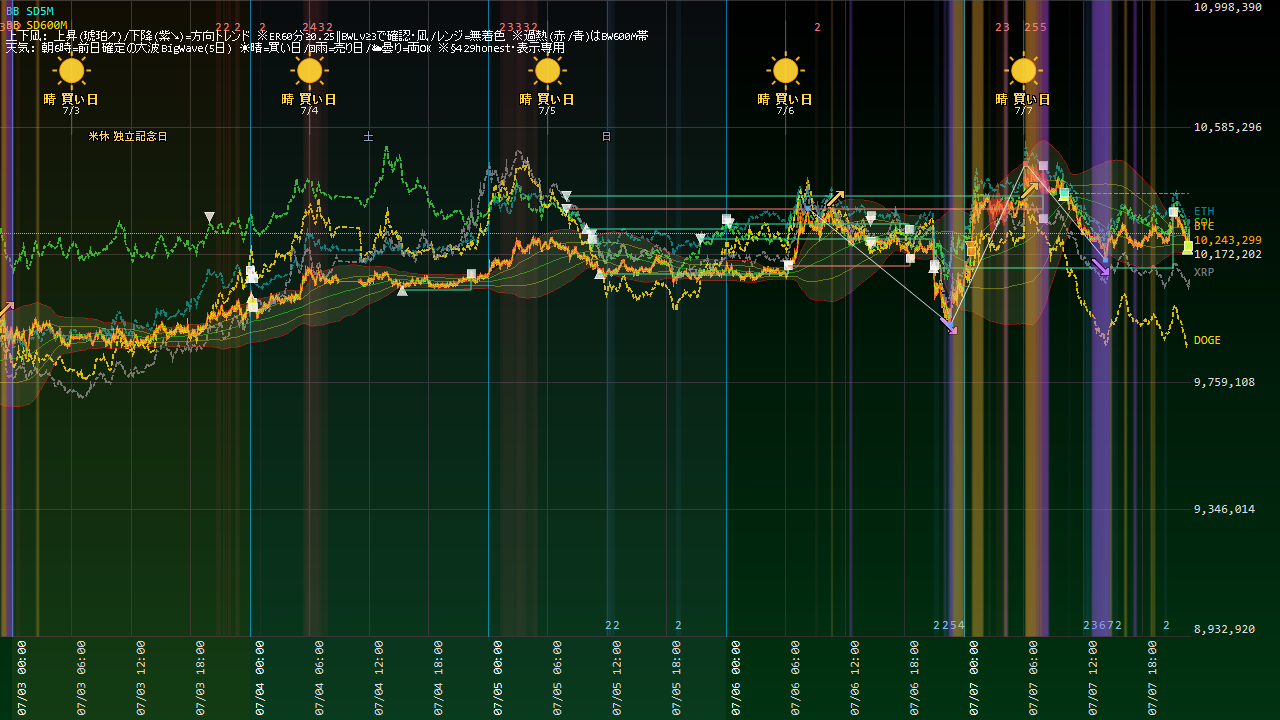
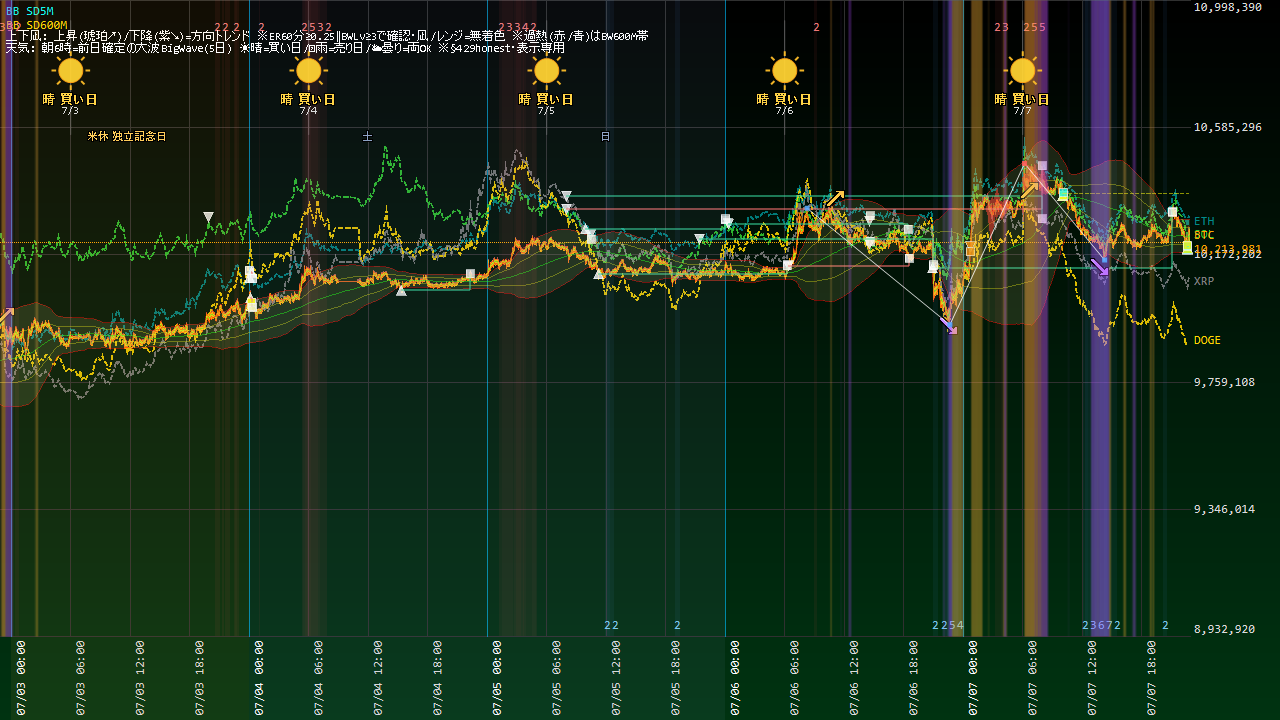
Coin100S 運用状況更新 07-07 22:59

diff --git a/coin100s-795hc4jfv8/index.html b/coin100s-795hc4jfv8/index.html
@@ -14,16 +14,16 @@ a{color:#60a5fa;text-decoration:none} a:hover{text-decoration:underline}
 .meta{color:#94a3b8;font-size:13px}</style>
 <meta http-equiv="refresh" content="300"></head><body>
 <h1>Coin100S ダッシュボード</h1>
-<p class="meta">スナップショット: 2026-07-07 22:54:02(5分毎更新・自動リロード)</p>
+<p class="meta">スナップショット: 2026-07-07 22:59:02(5分毎更新・自動リロード)</p>
 <div class="cards">
 <div class="card">建玉数<div class="v">3</div></div>
 <div class="card">本日損益<div class="v pos">+509円</div></div>
-<div class="card">評価損益<div class="v pos">+361円</div></div>
+<div class="card">評価損益<div class="v pos">+419円</div></div>
 </div>
 <h2>現在の建玉</h2>
-<table><tr><th>銘柄</th><th>側</th><th>数量</th><th>建値</th><th>含損益</th><th>レッグ</th></tr><tr><td>BCH_JPY</td><td>SELL</td><td>0.1</td><td>@39,606</td><td>+82円</td><td>RELVAL_SELL</td></tr><tr><td>BCH_JPY</td><td>SELL</td><td>0.1</td><td>@39,606</td><td>+82円</td><td>RELVAL_SELL</td></tr><tr><td>LTC_JPY</td><td>SELL</td><td>1</td><td>@7,333</td><td>+197円</td><td>RELVAL_SELL</td></tr></table>
+<table><tr><th>銘柄</th><th>側</th><th>数量</th><th>建値</th><th>含損益</th><th>レッグ</th></tr><tr><td>BCH_JPY</td><td>SELL</td><td>0.1</td><td>@39,606</td><td>+111円</td><td>RELVAL_SELL</td></tr><tr><td>BCH_JPY</td><td>SELL</td><td>0.1</td><td>@39,606</td><td>+111円</td><td>RELVAL_SELL</td></tr><tr><td>LTC_JPY</td><td>SELL</td><td>1</td><td>@7,333</td><td>+197円</td><td>RELVAL_SELL</td></tr></table>
 <p><a href="status.html"><b>▶ 運用状況の詳細(チャート・本日の取引・レジーム)</b></a></p>
 <h2>日報一覧</h2>
 <table><tr><th>取引日</th><th>実現損益</th><th>総括</th></tr><tr><td><a href='reports/20260706_Coin100S日報.html'>2026-07-06</a></td><td class="pos">+0円</td><td class='meta'>実取引: 新規9件/決済6件、実現損益 +0円。シグナル却下9件（最多: SD120M_5M／トレンド方向ゲート(N分傾き上と不一致=逆張り方向のfade禁止)）。⚠警告/エラー 150件（要確認）。</td></tr><tr><td><a href='reports/20260705_Coin100S日報.html'>2026-07-05</a></td><td class="pos">+0円</td><td class='meta'>実取引: 新規8件/決済3件、実現損益 +0円。⚠警告/エラー 2件（要確認）。</td></tr><tr><td><a href='reports/20260704_Coin100S日報.html'>2026-07-04</a></td><td class="pos">+0円</td><td class='meta'>実取引: 新規1件/決済2件、実現損益 +0円。⚠警告/エラー 2件（要確認）。</td></tr><tr><td><a href='reports/20260703_Coin100S日報.html'>2026-07-03</a></td><td class="pos">+0円</td><td class='meta'>実取引: 新規5件/決済4件、実現損益 +0円。⚠警告/エラー 15件（要確認）。</td></tr><tr><td><a href='reports/20260702_Coin100S日報.html'>2026-07-02</a></td><td class="pos">+0円</td><td class='meta'>実取引: 新規7件/決済5件、実現損益 +0円。シグナル却下17件（最多: SD120M_5M／トレンド方向ゲート(N分傾き上と不一致=逆張り方向のfade禁止)）。⚠警告/エラー 26件（要確認）。</td></tr><tr><td><a href='reports/20260701_Coin100S日報.html'>2026-07-01</a></td><td class="pos">+0円</td><td class='meta'>実取引: 新規14件/決済8件、実現損益 +0円。シグナル却下14件（最多: SD120M_5M／ボラ軸ゲート(SDN%&amp;gt;N%=高ボラ/荒れレンジ)）。⚠警告/エラー 2件（要確認）。</td></tr><tr><td><a href='reports/20260630_Coin100S日報.html'>2026-06-30</a></td><td class="pos">+0円</td><td class='meta'>実取引: 新規0件/決済1件、実現損益 +0円。シグナル却下29件（最多: 微5M／当日枠N）。警告/孤児/エラーなし＝健全。</td></tr></table>
-<hr><p class="meta">更新: 2026-07-07 22:54:09 / 自動生成: tools/web_publish.py(§580)</p>
+<hr><p class="meta">更新: 2026-07-07 22:59:13 / 自動生成: tools/web_publish.py(§580)</p>
 </body></html>

diff --git a/coin100s-795hc4jfv8/status.html b/coin100s-795hc4jfv8/status.html
@@ -14,19 +14,19 @@ a{color:#60a5fa;text-decoration:none} a:hover{text-decoration:underline}
 .meta{color:#94a3b8;font-size:13px}</style>
 <meta http-equiv="refresh" content="300"></head><body>
 <h1>Coin100S 運用状況</h1>
-<p class="meta">スナップショット: 2026-07-07 22:53:32 / ページ生成: 2026-07-07 22:54:09(5分毎更新・自動リロード) / <a href="index.html">目次へ</a></p>
+<p class="meta">スナップショット: 2026-07-07 22:58:32 / ページ生成: 2026-07-07 22:59:13(5分毎更新・自動リロード) / <a href="index.html">目次へ</a></p>
 <div class="cards">
 <div class="card">建玉数<div class="v">3</div></div>
 <div class="card">本日損益<div class="v pos">+509円</div></div>
-<div class="card">評価損益<div class="v pos">+361円</div></div>
+<div class="card">評価損益<div class="v pos">+417円</div></div>
 </div>
 <h2>取引チャート(直近24h)</h2>
-<img src="status_chart.png?t=2254" alt="chart">
+<img src="status_chart.png?t=2259" alt="chart">
 <h2>建玉一覧</h2>
-<table><tr><th>銘柄</th><th>側</th><th>数量</th><th>建値</th><th>含損益</th><th>レッグ</th></tr><tr><td>BCH_JPY</td><td>SELL</td><td>0.1</td><td>@39,606</td><td>+82円</td><td>RELVAL_SELL</td></tr><tr><td>BCH_JPY</td><td>SELL</td><td>0.1</td><td>@39,606</td><td>+82円</td><td>RELVAL_SELL</td></tr><tr><td>LTC_JPY</td><td>SELL</td><td>1</td><td>@7,333</td><td>+197円</td><td>RELVAL_SELL</td></tr></table>
+<table><tr><th>銘柄</th><th>側</th><th>数量</th><th>建値</th><th>含損益</th><th>レッグ</th></tr><tr><td>BCH_JPY</td><td>SELL</td><td>0.1</td><td>@39,606</td><td>+105円</td><td>RELVAL_SELL</td></tr><tr><td>BCH_JPY</td><td>SELL</td><td>0.1</td><td>@39,606</td><td>+105円</td><td>RELVAL_SELL</td></tr><tr><td>LTC_JPY</td><td>SELL</td><td>1</td><td>@7,333</td><td>+197円</td><td>RELVAL_SELL</td></tr></table>
 <h2>本取引日の実取引(6:00起点)</h2>
 <table><tr><th>時刻</th><th>種別</th><th>側</th><th>銘柄</th><th>数量</th><th>指値</th></tr><tr><td>08:02:03</td><td>決済</td><td>BUY</td><td>ETH_JPY</td><td>0.03</td><td>293,580</td></tr><tr><td>08:02:03</td><td>決済</td><td>BUY</td><td>XRP_JPY</td><td>50</td><td>187</td></tr><tr><td>08:02:03</td><td>決済</td><td>BUY</td><td>ADA_JPY</td><td>320</td><td>30</td></tr><tr><td>08:02:04</td><td>決済</td><td>BUY</td><td>XRP_JPY</td><td>50</td><td>187</td></tr><tr><td>08:02:04</td><td>決済</td><td>BUY</td><td>ADA_JPY</td><td>320</td><td>30</td></tr><tr><td>10:04:32</td><td>新規</td><td>BUY</td><td>BTC_JPY</td><td>0.001</td><td>10,370,642</td></tr><tr><td>10:04:36</td><td>新規</td><td>BUY</td><td>BTC_JPY</td><td>0.002</td><td>10,370,025</td></tr><tr><td>10:04:37</td><td>新規</td><td>BUY</td><td>BTC_JPY</td><td>0.002</td><td>10,370,025</td></tr><tr><td>10:09:37</td><td>決済</td><td>SELL</td><td>BTC_JPY</td><td>0.002</td><td>10,334,740</td></tr><tr><td>21:08:04</td><td>決済</td><td>SELL</td><td>BTC_JPY</td><td>0.001</td><td>10,280,447</td></tr><tr><td>22:36:59</td><td>新規</td><td>BUY</td><td>BTC_JPY</td><td>0.001</td><td>10,198,796</td></tr><tr><td>22:37:03</td><td>新規</td><td>BUY</td><td>BTC_JPY</td><td>0.001</td><td>10,198,796</td></tr><tr><td>22:37:20</td><td>新規</td><td>BUY</td><td>BTC_JPY</td><td>0.002</td><td>10,197,103</td></tr><tr><td>22:37:21</td><td>新規</td><td>BUY</td><td>BTC_JPY</td><td>0.002</td><td>10,197,103</td></tr></table>
 <h2>現在レジーム(3軸・§570c)</h2>
-<ul><li>アルト対BTC 5日: <b>+132bps</b>(アルト優越=RELVAL逆風)</li><li>BTC ER240m: <b>0.011</b>(閾値0.25→レンジ(fade順風/BWTRD逆風))</li><li>BTC実現ボラ240m: <b>5.85</b> bps/分</li></ul>
+<ul><li>アルト対BTC 5日: <b>+132bps</b>(アルト優越=RELVAL逆風)</li><li>BTC ER240m: <b>0.037</b>(閾値0.25→レンジ(fade順風/BWTRD逆風))</li><li>BTC実現ボラ240m: <b>6.05</b> bps/分</li></ul>
 <hr><p class="meta">自動生成: tools/web_publish.py(§580・読み取り専用)。売買判断はアプリ本体。</p>
 </body></html>
